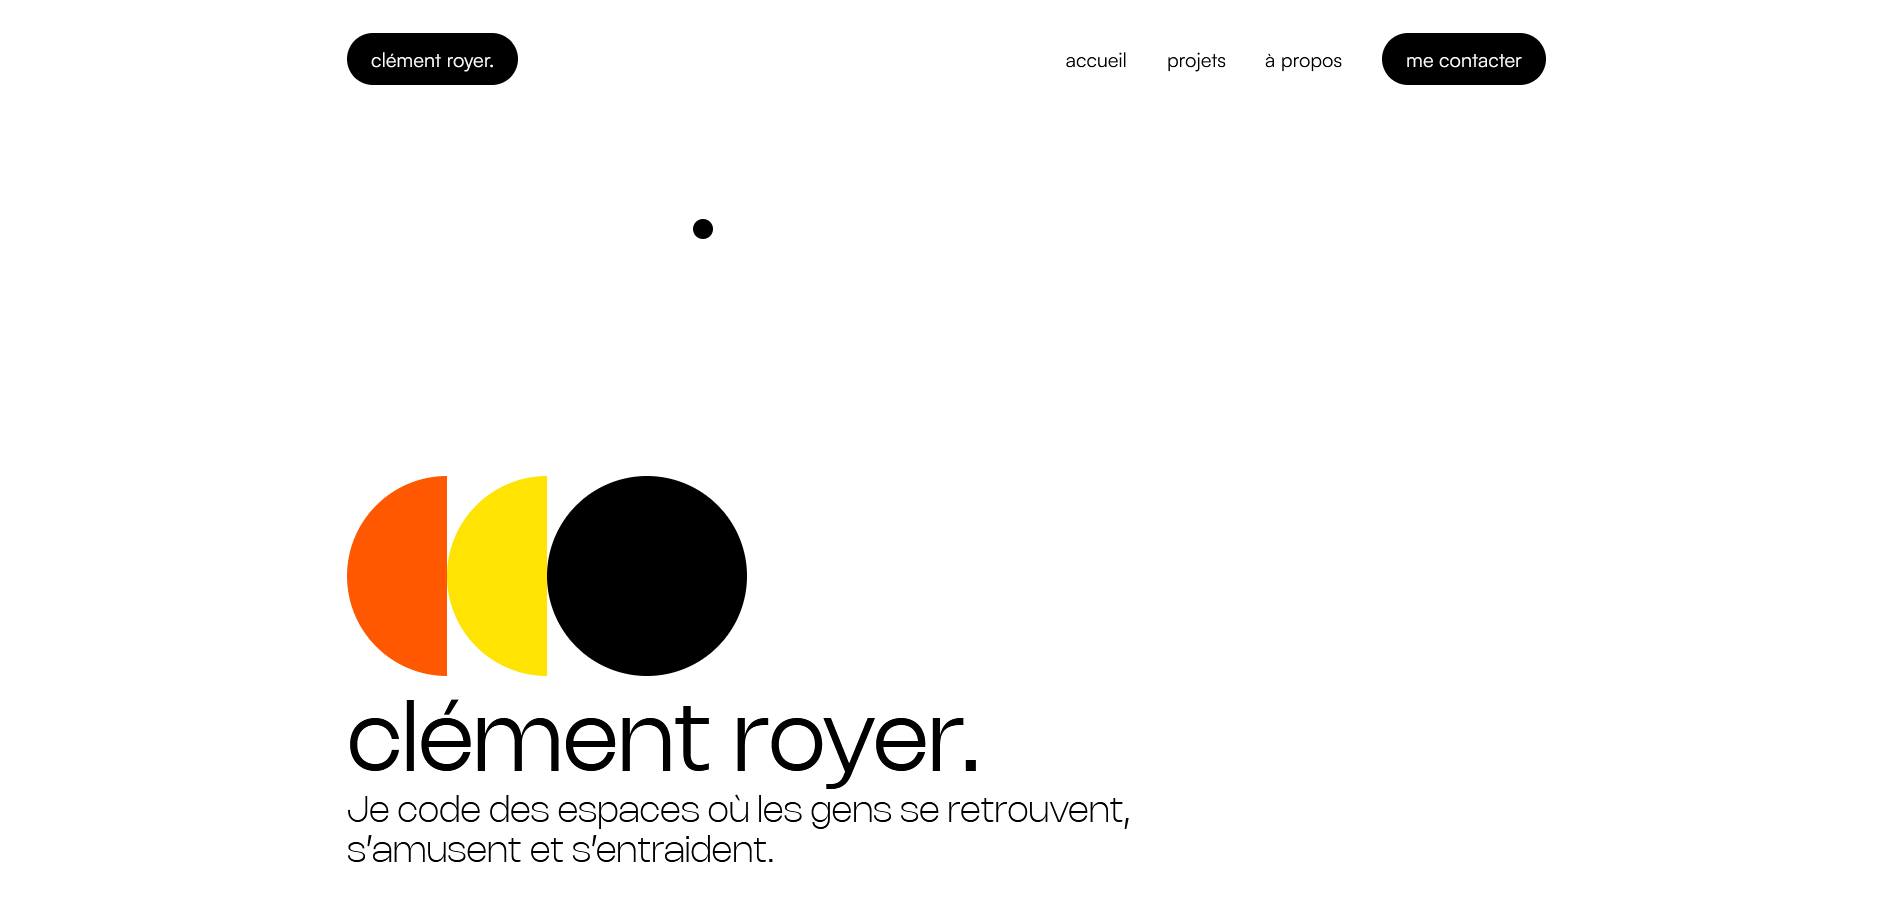
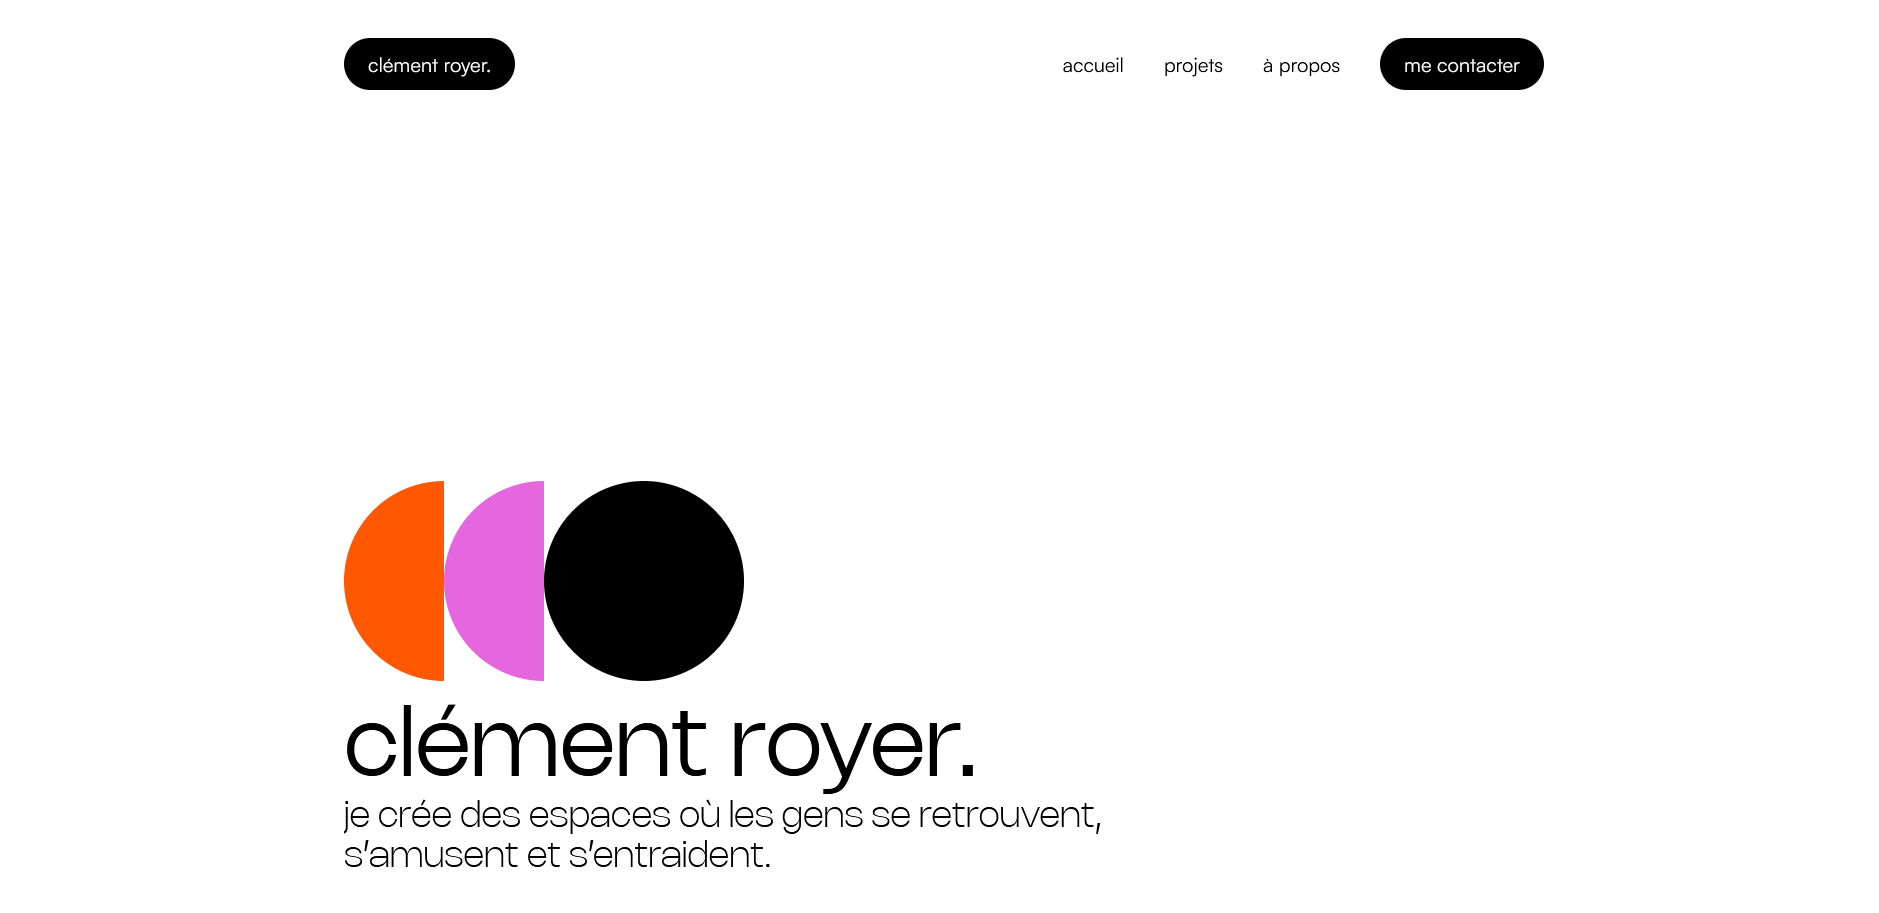
Change color and image

diff --git a/src/App.jsx b/src/App.jsx
@@ -12,7 +12,7 @@ function App() {
                     <div className="absolute bottom-6 sm:bottom-8 md:bottom-10">
                         <div className="draw flex mb-5">
                             <div className="demi-cercle bg-orange-custom"></div>
-                            <div className="demi-cercle bg-yellow-custom"></div>
+                            <div className="demi-cercle bg-pink-custom"></div>
                             <div className="cercle bg-black"></div>
                         </div>
                         <h2 className="text-6xl sm:text-7xl md:text-8xl font-normal md:font-light">clément royer.</h2>
@@ -22,7 +22,7 @@ function App() {
                 <section id="citation" className="flex justify-center items-end flex-col text-right">
                     <div className="relative font-extralight text-[22px] sm:text-3xl md:text-4xl max-w-5/6 md:max-w-3/4 lg:max-w-2/3 leading-none">
                         <div className="absolute left-0 top-1/2 -translate-y-1/2 -translate-x-1/4 z-0">
-                            <div className="big-cercle bg-yellow-custom"></div>
+                            <div className="big-cercle bg-pink-custom"></div>
                         </div>
                         <span className="relative z-2">
                             "the people who are crazy enough to think they can change the world, are the ones who do."

diff --git a/src/index.css b/src/index.css
@@ -164,7 +164,7 @@
 :root {
     --navbar-height: 129px;
     --orange: color(display-p3 .99 .4 .02);
-    --pink: #e450dc;
+    --pink: #e666df;
 }
 
 html {
